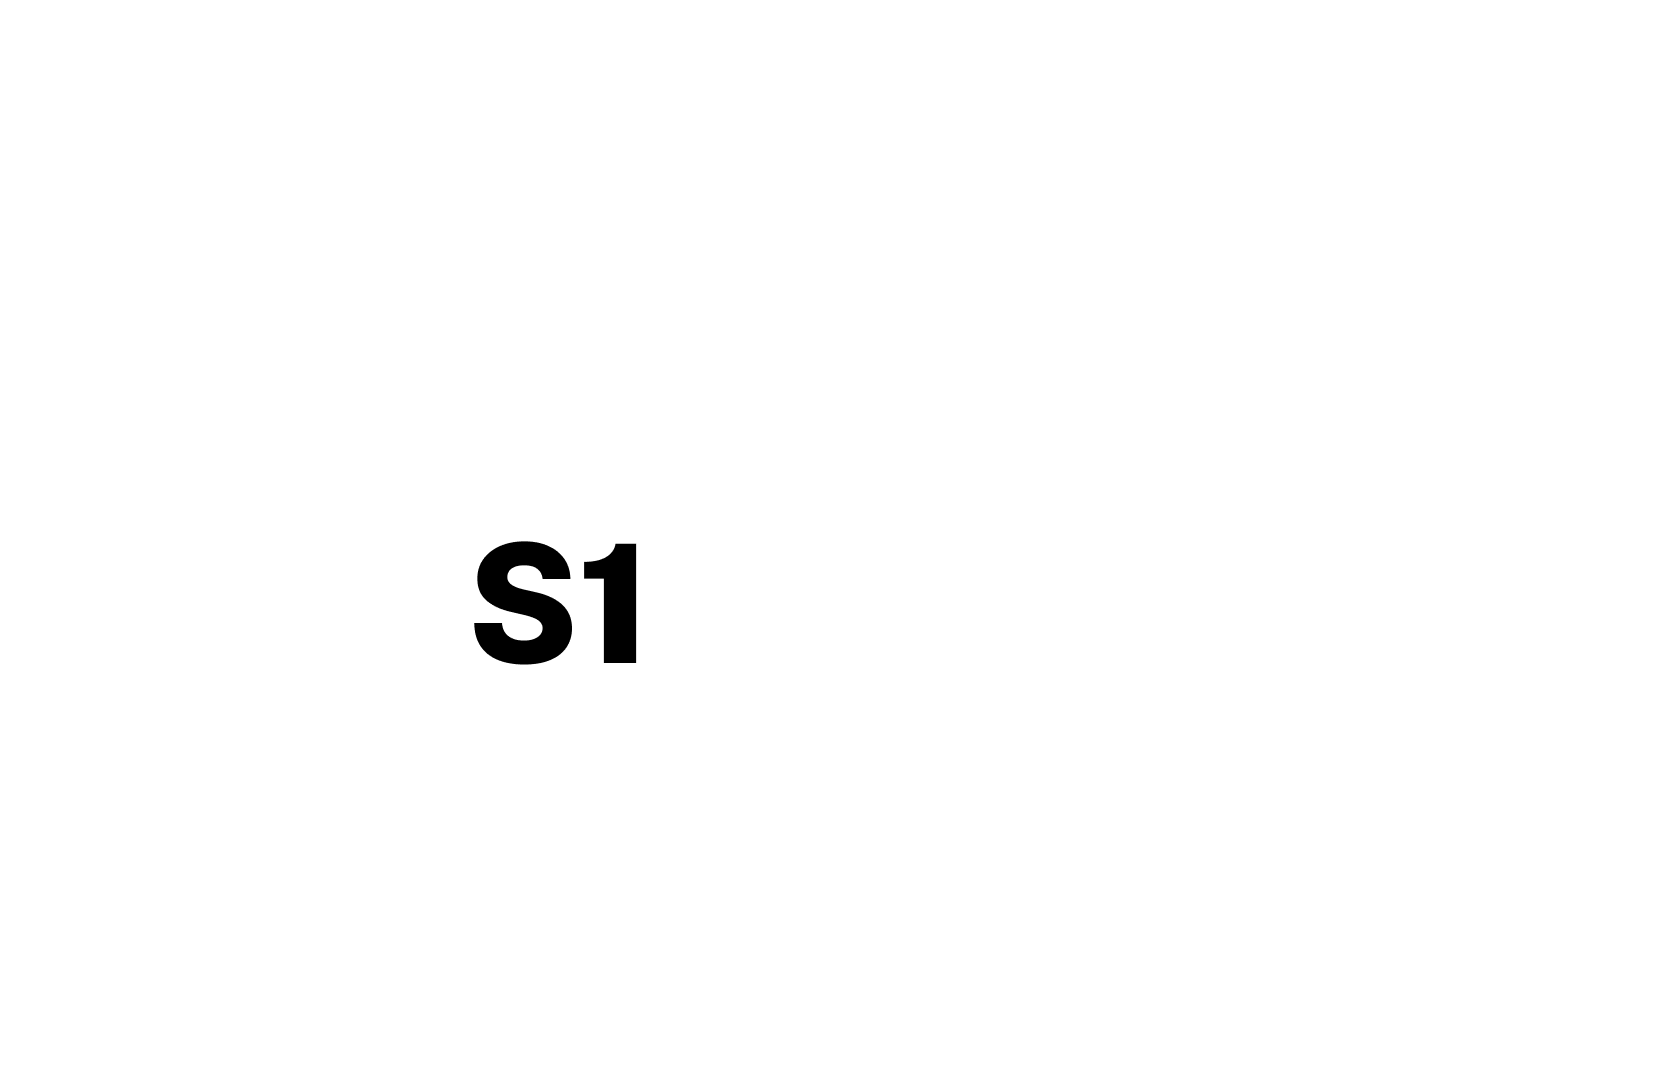
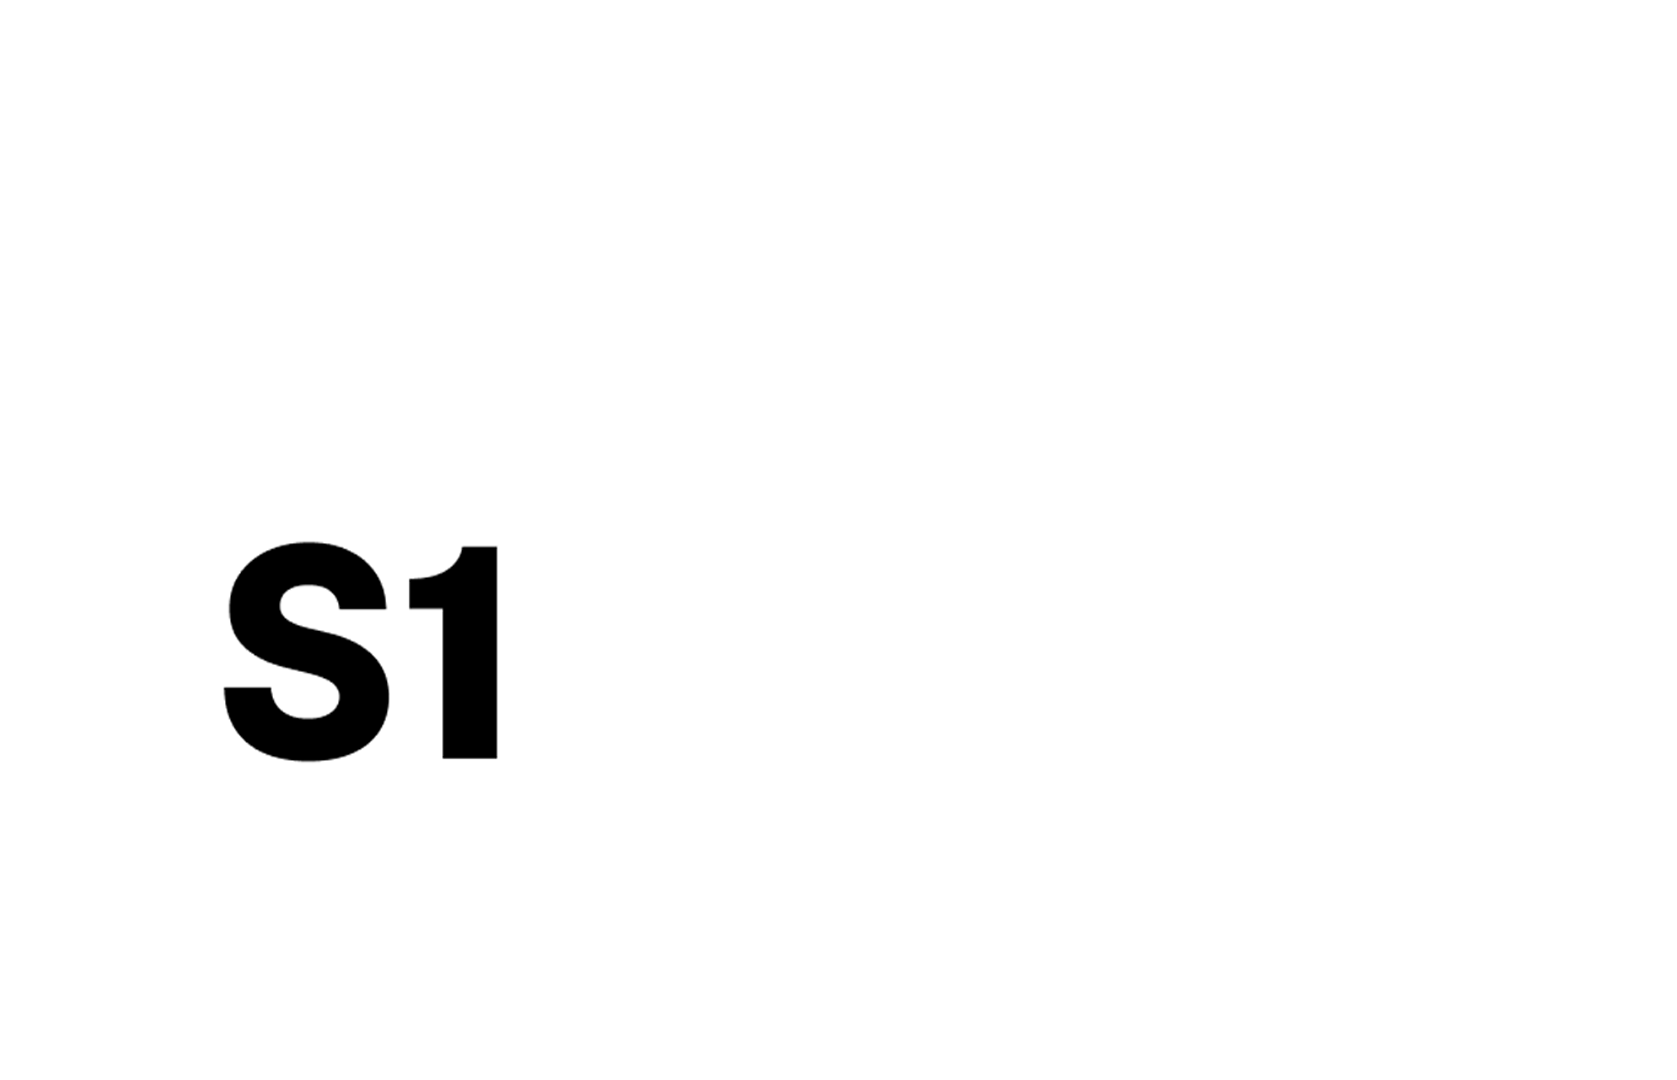
Add files via upload

Changed region(s): [[0.124, 0.4889, 0.4031, 0.7028]]

diff --git a/style.css b/style.css
@@ -495,6 +495,101 @@ a {
 }
 
 /* ===== HERO ===== */
+/* ===== ОТДЕЛЬНЫЕ ИЗОБРАЖЕНИЯ ДЛЯ МОБИЛЬНЫХ И ДЕСКТОПА ===== */
+
+/* Скрываем мобильное изображение по умолчанию */
+.hero-logo-image.mobile-image {
+    display: none;
+}
+
+/* Показываем десктопное изображение по умолчанию */
+.hero-logo-image.desktop-image {
+    display: block;
+}
+
+/* Для мобильных устройств - показываем мобильное изображение */
+@media (max-width: 1024px) {
+    .hero-logo-image.mobile-image {
+        display: block;
+        width: 100%;
+        max-width: 280px;
+        height: auto;
+        margin: 0 auto;
+    }
+    
+    .hero-logo-image.desktop-image {
+        display: none;
+    }
+    
+    /* Убираем лишнюю надпись "ЦЕНТР ТАНЦА" на мобильных */
+    .desktop-subtitle {
+        display: none;
+    }
+    
+    /* Настройки для мобильного изображения */
+    .hero-image-wrapper {
+        width: 280px !important;
+        height: 280px !important;
+        margin: 0 auto 20px auto !important;
+        display: flex !important;
+        justify-content: center !important;
+        align-items: center !important;
+    }
+    
+    .hero-logo-image {
+        width: 100% !important;
+        height: 100% !important;
+        object-fit: contain !important;
+        border-radius: 20px !important;
+        filter: drop-shadow(0 12px 35px rgba(0, 0, 0, 0.4)) !important;
+    }
+}
+
+/* Для планшетов (768px - 1024px) */
+@media (min-width: 768px) and (max-width: 1024px) {
+    .hero-logo-image.mobile-image {
+        max-width: 350px !important;
+    }
+    
+    .hero-image-wrapper {
+        width: 350px !important;
+        height: 350px !important;
+    }
+}
+
+/* Для очень маленьких экранов */
+@media (max-width: 576px) {
+    .hero-logo-image.mobile-image {
+        max-width: 240px !important;
+    }
+    
+    .hero-image-wrapper {
+        width: 240px !important;
+        height: 240px !important;
+    }
+}
+
+@media (max-width: 400px) {
+    .hero-logo-image.mobile-image {
+        max-width: 220px !important;
+    }
+    
+    .hero-image-wrapper {
+        width: 220px !important;
+        height: 220px !important;
+    }
+}
+
+@media (max-width: 360px) {
+    .hero-logo-image.mobile-image {
+        max-width: 200px !important;
+    }
+    
+    .hero-image-wrapper {
+        width: 200px !important;
+        height: 200px !important;
+    }
+}
 /* ===== ИСПРАВЛЕННЫЙ HERO БЛОК ===== */
 
 .hero {

diff --git a/index.html b/index.html
@@ -87,30 +87,13 @@
 <!-- Hero Section -->
 <section class="hero" id="home">
     <div class="container hero-container">
-        <!-- Верхняя часть: картинка и заголовок рядом (только на мобильных) -->
-            <div class="hero-top-section">
-                <div class="hero-image-wrapper">
-                    <img src="главная-лого-сейчас_стоит.png" 
-                         alt="Танцевальный коллектив S1 family" 
-                         class="hero-logo-image"
-                         loading="lazy">
-                </div>
-                
-                <div class="hero-title-wrapper">
-                    <h1 class="hero-title">
-                        <span class="logo-s1-large">S1 family</span>
-                    </h1>
-                    <span class="hero-subtitle-main">ЦЕНТР ТАНЦА</span>
-                </div>
-            </div>
-            
         <!-- Контент -->
         <div class="hero-content">
             <div class="hero-title-wrapper">
                 <h1 class="hero-title">
                     <span class="logo-s1-large">S1 family</span>
                 </h1>
-                <span class="hero-subtitle-main">ЦЕНТР ТАНЦА</span>
+                <span class="hero-subtitle-main desktop-subtitle">ЦЕНТР ТАНЦА</span>
             </div>
             
             <p class="hero-description">Профессиональное обучение танцам для всех возрастов. Стань частью нашей большой танцевальной семьи и открой в себе новые возможности.</p>
@@ -144,6 +127,20 @@
             </div>
         </div>
         
+        <!-- ПРАВАЯ КОЛОНКА С ЛОГОТИПОМ -->
+        <div class="hero-image-wrapper">
+            <!-- Десктопное изображение (скрыто на мобильных) -->
+            <img src="главная-лого-сейчас_стоит2.png" 
+                 alt="Танцевальный коллектив S1 family" 
+                 class="hero-logo-image desktop-image"
+                 loading="lazy">
+            
+            <!-- Мобильное изображение (скрыто на десктопе) -->
+            <img src="главная-лого-сейчас_стоит.png" 
+                 alt="Танцевальный коллектив S1 family" 
+                 class="hero-logo-image mobile-image"
+                 loading="lazy">
+        </div>
     </div>
 </section>
 
